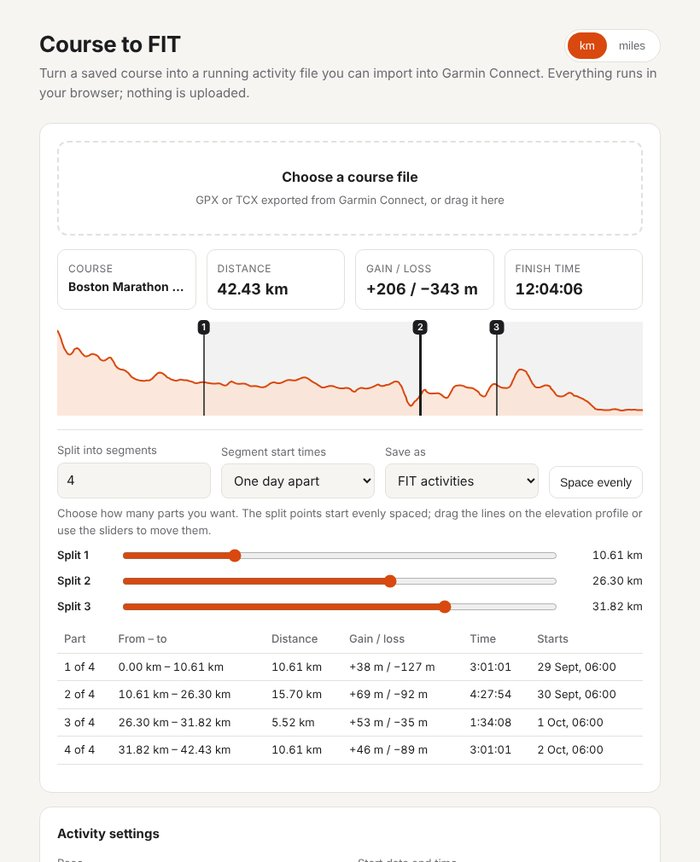
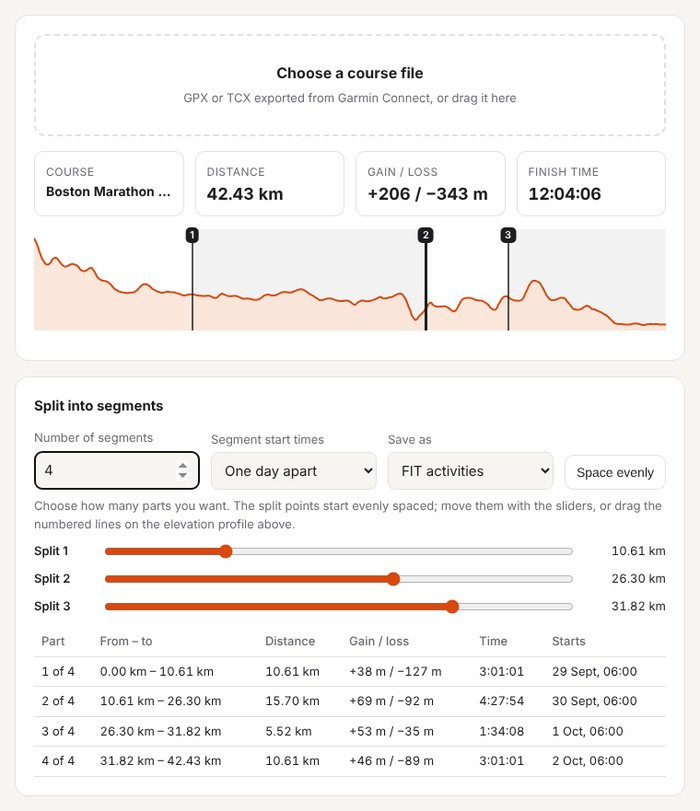
Move splitting below Activity settings; units toggle next to Pace
- Splitting now has its own card after Activity settings, shown once a
  course is loaded; the split lines stay on the elevation profile
- The km/miles toggle sits beside the Pace field instead of the page
  header
- README and screenshot updated to match

diff --git a/index.html b/index.html
@@ -49,8 +49,8 @@
   ol.note { padding-left: 18px; margin: 0; }
   .hidden { display: none; }
   .top { display: flex; justify-content: space-between; align-items: flex-start; gap: 16px; }
-  .units { display: inline-flex; border: 1px solid var(--line); border-radius: 999px; padding: 3px; background: var(--card); flex: none; margin-top: 2px; }
-  .units button { width: auto; background: transparent; color: var(--muted); font: 600 14px/1 inherit; padding: 8px 14px; border-radius: 999px; }
+  .units { display: inline-flex; flex: none !important; border: 1px solid var(--line); border-radius: 999px; padding: 3px; background: var(--bg); }
+  .units button { width: auto; background: transparent; color: var(--muted); font: 600 13px/1 inherit; padding: 9px 12px; border-radius: 999px; white-space: nowrap; }
   .units button[aria-pressed="true"] { background: var(--accent); color: var(--accent-ink); }
   .suffix { flex: none !important; color: var(--muted); font-size: 14px; min-width: 64px; }
   .profwrap { position: relative; margin-top: 14px; touch-action: none; user-select: none; }
@@ -60,8 +60,7 @@
   .handle span { position: absolute; left: 50%; top: -2px; transform: translateX(-50%); background: var(--ink); color: var(--card);
     font-size: 11px; font-weight: 600; line-height: 1; padding: 3px 5px; border-radius: 5px; white-space: nowrap; }
   .handle:hover::before, .handle.drag::before { opacity: 1; width: 3px; }
-  .split { margin-top: 16px; border-top: 1px solid var(--line); padding-top: 14px; }
-  .splitrow { display: grid; grid-template-columns: 1fr 1fr 1fr auto; gap: 12px; align-items: end; }
+    .splitrow { display: grid; grid-template-columns: 1fr 1fr 1fr auto; gap: 12px; align-items: end; }
   button.ghost { background: transparent; color: var(--ink); border: 1px solid var(--line); font-size: 14px; padding: 10px 12px; width: auto; white-space: nowrap; }
   button.ghost:disabled { opacity: .4; }
   .slider { display: grid; grid-template-columns: 64px 1fr 92px; gap: 10px; align-items: center; margin-top: 10px; font-size: 13px; }
@@ -78,13 +77,7 @@
 </head>
 <body>
 <main>
-  <div class="top">
-    <h1>Course to FIT</h1>
-    <div class="units" role="group" aria-label="Distance units">
-      <button type="button" data-unit="km" aria-pressed="true">km</button>
-      <button type="button" data-unit="mi" aria-pressed="false">miles</button>
-    </div>
-  </div>
+  <h1>Course to FIT</h1>
   <p class="sub">Turn a saved course into a running activity file you can import into Garmin Connect. Everything runs in your browser; nothing is uploaded.</p>
 
   <section class="card">
@@ -104,32 +97,6 @@
         <svg class="profile" id="profile" viewBox="0 0 700 110" preserveAspectRatio="none" aria-label="Elevation profile"></svg>
         <div id="handles"></div>
       </div>
-      <div class="split">
-        <div class="splitrow">
-          <div>
-            <label for="segN">Split into segments</label>
-            <input type="number" id="segN" value="1" min="1" max="20">
-          </div>
-          <div>
-            <label for="segGap">Segment start times</label>
-            <select id="segGap">
-              <option value="day">One day apart</option>
-              <option value="back">Back to back</option>
-            </select>
-          </div>
-          <div>
-            <label for="fmt">Save as</label>
-            <select id="fmt">
-              <option value="fit">FIT activities</option>
-              <option value="gpx">GPX courses</option>
-            </select>
-          </div>
-          <div class="evenbox"><button type="button" class="ghost" id="segEven">Space evenly</button></div>
-        </div>
-        <p class="note" id="splitHint" style="margin:8px 0 0">Choose how many parts you want. The split points start evenly spaced; drag the lines on the elevation profile or use the sliders to move them.</p>
-        <div id="segSliders"></div>
-        <div class="tablewrap"><table id="segTable"></table></div>
-      </div>
     </div>
     <div class="msg" id="loadMsg"></div>
   </section>
@@ -141,7 +108,10 @@
         <label for="pace">Pace</label>
         <div class="row">
           <input type="text" id="pace" value="17:04" inputmode="numeric" placeholder="mm:ss">
-          <span class="suffix" id="paceUnit">per km</span>
+          <div class="units" role="group" aria-label="Pace and distance units">
+            <button type="button" data-unit="km" aria-pressed="true">per km</button>
+            <button type="button" data-unit="mi" aria-pressed="false">per mile</button>
+          </div>
           <input type="hidden" id="unit" value="km">
         </div>
         <p class="note" style="margin:6px 0 0">Use a slow pace. The default is 17:04/km (27:28/mile), which is a 12-hour marathon, with a matching walking cadence of 105 steps per minute. That pace won't set records or count as a hard effort. Change it above if you want something else.</p>
@@ -169,6 +139,34 @@
       <div class="full"><label class="check"><input type="checkbox" id="cadOn" checked> Include cadence</label></div>
       <div id="cadBox"><label for="cad">Cadence (steps per minute)</label><input type="number" id="cad" value="105" min="60" max="220"></div>
     </div>
+  </section>
+
+  <section class="card hidden" id="splitCard">
+    <h2>Split into segments</h2>
+    <div class="splitrow">
+      <div>
+        <label for="segN">Number of segments</label>
+        <input type="number" id="segN" value="1" min="1" max="20">
+      </div>
+      <div>
+        <label for="segGap">Segment start times</label>
+        <select id="segGap">
+          <option value="day">One day apart</option>
+          <option value="back">Back to back</option>
+        </select>
+      </div>
+      <div>
+        <label for="fmt">Save as</label>
+        <select id="fmt">
+          <option value="fit">FIT activities</option>
+          <option value="gpx">GPX courses</option>
+        </select>
+      </div>
+      <div class="evenbox"><button type="button" class="ghost" id="segEven">Space evenly</button></div>
+    </div>
+    <p class="note" id="splitHint" style="margin:8px 0 0">Choose how many parts you want. The split points start evenly spaced; move them with the sliders, or drag the numbered lines on the elevation profile above.</p>
+    <div id="segSliders"></div>
+    <div class="tablewrap"><table id="segTable"></table></div>
   </section>
 
   <section class="card">
@@ -531,7 +529,6 @@ ${pts}
   function showUnit() {
     const u = $('unit').value;
     document.querySelectorAll('.units button').forEach(b => b.setAttribute('aria-pressed', String(b.dataset.unit === u)));
-    $('paceUnit').textContent = u === 'mi' ? 'per mile' : 'per km';
   }
   document.querySelectorAll('.units button').forEach(b => b.addEventListener('click', () => {
     if ($('unit').value === b.dataset.unit) return;
@@ -566,10 +563,10 @@ ${pts}
         course = CourseToFit.parseCourse(text);
         stats = CourseToFit.courseStats(course.points);
         msg($('loadMsg'), course.hasElevation ? '' : 'This course has no elevation data, so the activity will be flat.', course.hasElevation ? '' : 'warn');
-        $('summary').classList.remove('hidden');
+        $('summary').classList.remove('hidden'); $('splitCard').classList.remove('hidden');
         setSegments(+$('segN').value || 1);
       } catch (err) {
-        course = null; stats = null; $('summary').classList.add('hidden'); msg($('loadMsg'), err.message, 'err'); refresh();
+        course = null; stats = null; $('summary').classList.add('hidden'); $('splitCard').classList.add('hidden'); msg($('loadMsg'), err.message, 'err'); refresh();
       }
     });
   }

diff --git a/README.md b/README.md
@@ -15,7 +15,7 @@ Please see the notes as to how will/may affect your metrics.
 
 2. Open `index.html` in Chrome, Edge, Safari or Firefox (double-click it). On Windows, unzip first rather than opening it from inside the ZIP.
 3. Choose a course file. To get one, open the course in Garmin Connect, click the gear icon and choose **Export GPX** (or TCX).
-4. Pick **km** or **miles** with the switch at the top right of the page. Every distance, elevation, split point and the pace change over straight away, and the pace is converted so the speed stays the same (17:04 per km becomes 27:28 per mile). US English browsers start in miles.
+4. Pick **per km** or **per mile** with the toggle next to **Pace**. Every distance, elevation, split point and the pace change over straight away, and the pace is converted so the speed stays the same (17:04 per km becomes 27:28 per mile). US English browsers start in miles.
 5. Set the pace, start time and device, then click **Create FIT file**. In Chrome or Edge a Save window opens so you can choose the folder and file name. Safari and Firefox save to your Downloads folder instead, unless you turn on "Ask where to save" in the browser's download settings.
 
    ![The Course to FIT page with the Boston Marathon course loaded](docs/app.jpg)
@@ -26,8 +26,10 @@ Please see the notes as to how will/may affect your metrics.
 
 You can break a long course into several shorter ones, for example a marathon into four parts.
 
-1. Load the course, then set **Split into segments** to the number of parts you want. The split points start evenly spaced and show as numbered lines on the elevation profile.
-2. Move a split point by dragging its line on the profile, or with its slider underneath. Each part is always at least 100 m long, and split points can't pass each other. **Space evenly** puts them back to equal lengths.
+The **Split into segments** box appears below **Activity settings** once a course is loaded.
+
+1. Set **Number of segments** to the number of parts you want. The split points start evenly spaced and show as numbered lines on the elevation profile at the top.
+2. Move a split point with its slider, or by dragging its numbered line on the elevation profile. Each part is always at least 100 m long, and split points can't pass each other. **Space evenly** puts them back to equal lengths.
 3. Check the table: it shows each part's distance, climbing, time at your pace and start time.
 4. Choose **Segment start times**: **One day apart** (part 1 on the start date, part 2 the next day, and so on) or **Back to back** (each part starts a minute after the previous one finishes).
 5. Choose **Save as**: **FIT activities** to import into Garmin Connect, or **GPX courses** if you just want the course cut into pieces.
@@ -35,7 +37,7 @@ You can break a long course into several shorter ones, for example a marathon in
 
 ![The Boston Marathon course split into four parts, with split lines on the elevation profile, sliders and a table of the parts](docs/split.jpg)
 
-The km / miles switch applies here too: the sliders, the table and the split points are shown in whichever unit you pick.
+The **per km / per mile** toggle applies here too: the sliders, the table and the split points are shown in whichever unit you pick.
 
 Files are named like `Boston_part1of4_activity.fit`. Each part gets its own file ID, so Garmin won't reject later parts as duplicates. When parts are one day apart, the start date defaults far enough back that every part is in the past; if you choose a start that would put any part in the future, the page warns you.
 
